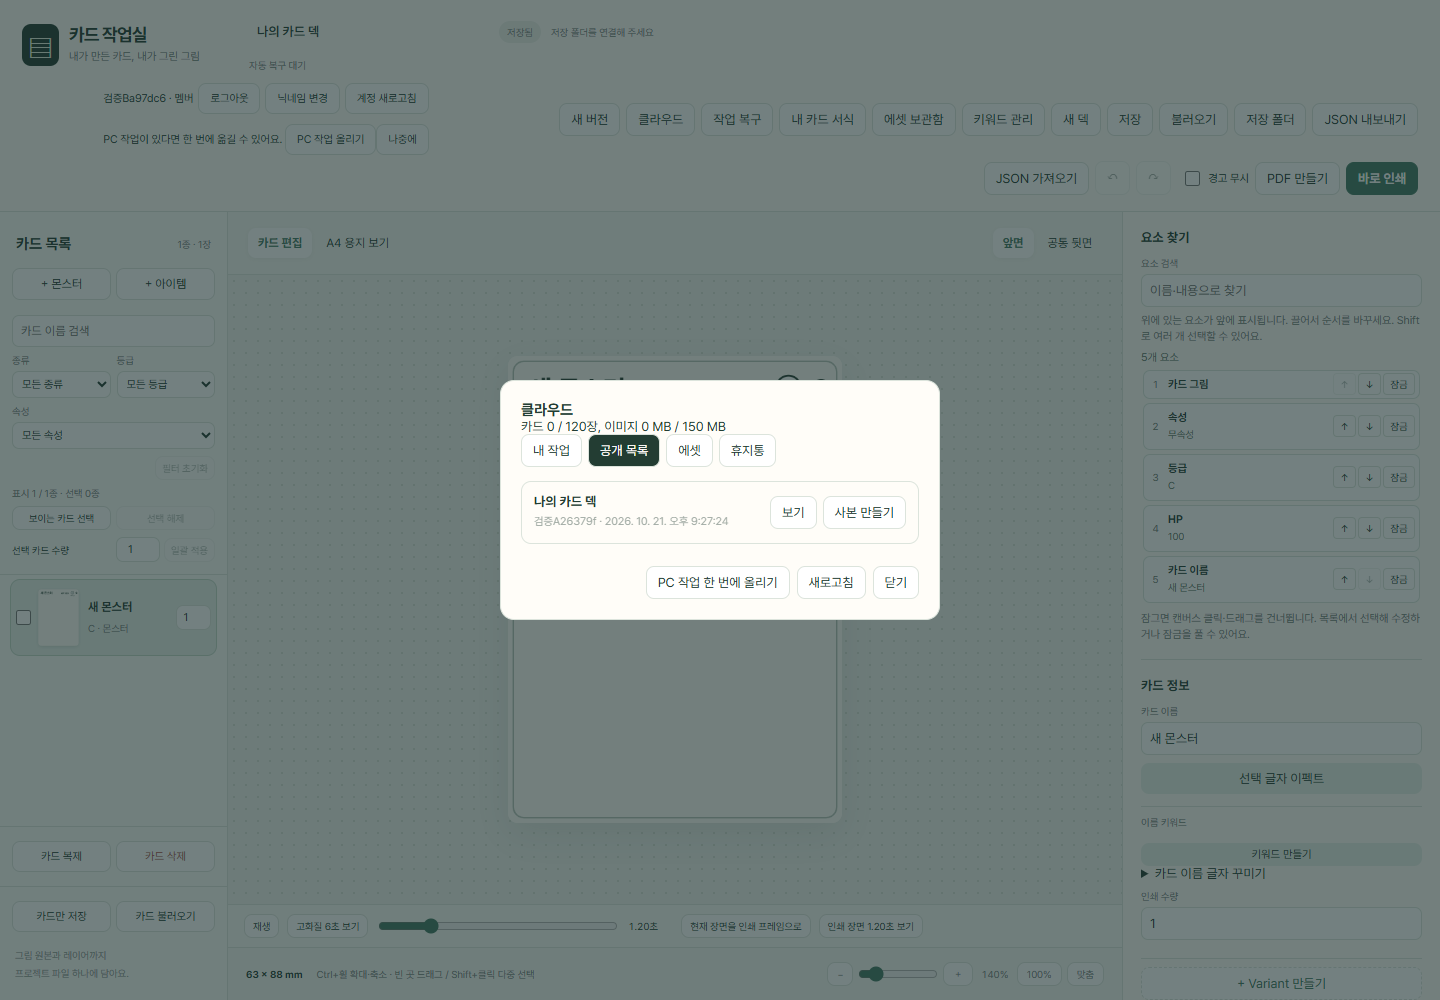
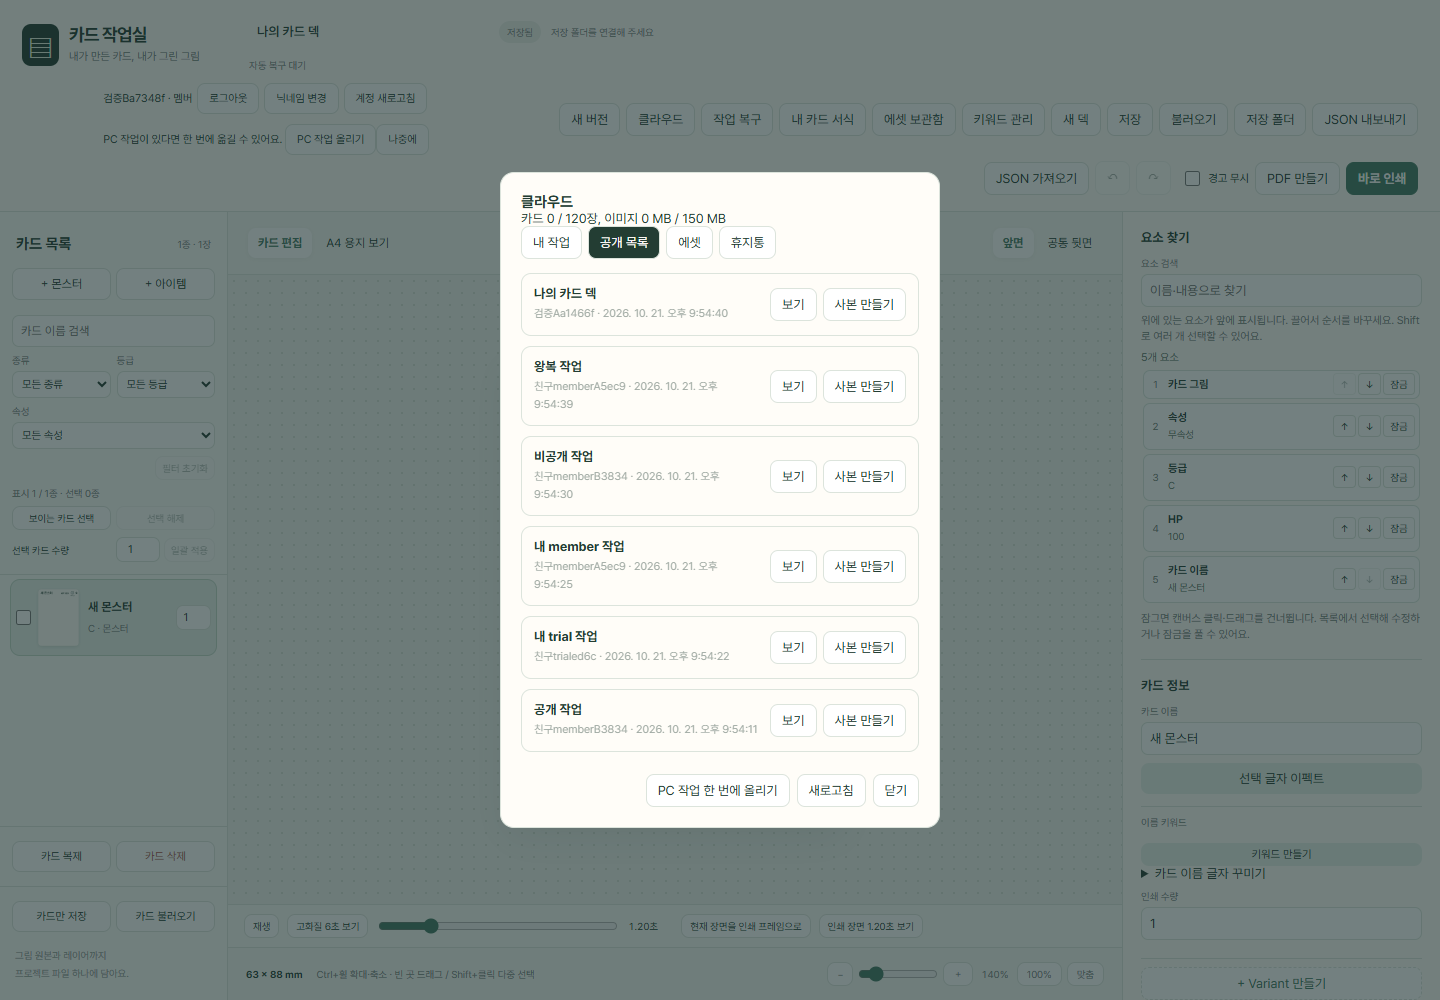
chore: record final local cloud sharing verification

diff --git a/docs/cloud-implementation-decisions.md b/docs/cloud-implementation-decisions.md
@@ -1,0 +1,43 @@
+# 구현 중 판단한 사항
+
+계획 실행 기록의 `Ruling:` 35개를 결정한 순서대로 옮겼다. 부록 A SQL 원문과 부록 B 권한 기준은 유지했다. 운영 반영은 사용자 확인 전까지 대기한다.
+
+| 순서 | 판단과 이유 | 영향·틀렸을 때 비용 |
+| --- | --- | --- |
+| 1 | 대기 중 이어서 작업할 수 있게 이 계획의 로컬 진행 기록을 보존한다. | 로컬 임시 파일이 남는다. |
+| 2 | 지정된 클라우드 브랜치 기준을 지키고 다른 폴더의 v1.5.3을 병합하지 않는다. | 나중에 통합할 때 충돌을 해결할 수 있다. |
+| 3 | 카드 서식은 공통 봉투 형식에 맞춰 `item`으로 검증한다. | 소비 코드 한 곳을 조정할 수 있다. |
+| 4 | 그림을 재구성할 수 있게 선택적인 `assets`·`paintings` 맵을 함께 저장한다. | 운영 반영 전 스냅샷 형식을 조정할 수 있다. |
+| 5 | 카드 서식 안의 그림도 재귀 변환하고 공유 이미지 크기 검사 함수를 제공한다. | 순수 모델의 공개 함수가 늘어난다. |
+| 6 | 예상 사용량과 가져오기 카운터·시각을 처리하도록 저장소 인터페이스를 확장한다. | 실제 DB 어댑터가 이를 구현해야 한다. |
+| 7 | 순수 핸들러는 사용자별로 직렬화하고 실제 DB의 잠금 연결 지점을 둔다. | 여러 서버의 원자성은 Task 5에서 별도로 검증해야 했다. 현재 검증했다. |
+| 8 | 바이너리 업로드도 가져오기 토큰을 받는다. | 전송 어댑터의 추가 옵션을 유지한다. |
+| 9 | JSON과 별도로 바이너리 업로드와 테스트용 전송 주입을 제공한다. | 서버의 업로드 경로 해석이 이를 지원해야 한다. |
+| 10 | 배포물의 금지 문자열까지 지키도록 고정된 SDK의 서버 키 감지 분기만 빌드에서 제외하고 공개 키만 허용한다. | SDK를 올릴 때 실패하도록 만든 이 어댑터를 재검토해야 한다. |
+| 11 | 개별 브라우저 검사는 파일을 명시한다. 기존 npm 명령 뒤에 파일을 붙이면 전체가 실행되기 때문이다. | 개별 검증 호출 방식이 달라진다. 최종 검사는 계획의 전체 명령을 썼다. |
+| 12 | 대기 계정의 모든 쓰기를 금지하므로 닉네임은 승인 후 받는다. | 대기 중에는 닉네임을 설정할 수 없다. |
+| 13 | 설정 전에는 세 번째 SQL 작성·적용을 미루고 가짜 클라이언트로 UI만 만든다. | 사용량 함수 검증을 설정 후로 미뤘다. 현재 세 원문과 실제 DB 검증을 완료했다. |
+| 14 | 다른 사람의 공개 덱에서는 화면 버튼과 실제 편집·되돌리기·내보내기를 함께 막는다. | 카드 파일 인터페이스에 기본 호환 옵션 하나를 유지한다. |
+| 15 | 공유 사본의 그림·레이어 식별자 변환을 재사용하고 공유 UI는 별도 모듈에 둔다. | 순수 보조 함수와 UI 모듈을 유지한다. |
+| 16 | 클라우드 이미지의 로컬 식별자를 행 ID로 만들고 계정별 캐시·미완료 저장을 보관한다. | 로컬 캐시 ID가 스냅샷 ID와 다르다. 서버 내용은 명시적으로 저장할 때 바뀐다. |
+| 17 | 알려지지 않은 그림 참조가 저장되지 않게 그림을 먼저 업로드한다. | 계획 예시와 진행 표시 순서가 다르다. |
+| 18 | PC 일괄 가져오기는 클라우드 캐시가 아닌 PC 이미지 보관함을 읽는다. | 로컬 보관함을 읽는 함수 하나를 유지한다. |
+| 19 | 최초 가져오기는 편집을 가로막는 자동 창 대신 닫을 수 있는 배너로 제안한다. | 배너를 놓치면 클라우드 메뉴에서 열어야 한다. |
+| 20 | 사용자가 준비한 DB를 Task 3에서 초기화하지 않고 적용된 SQL을 검사한다. | 이 단계만으로 빈 DB 재적용은 증명하지 못했다. Task 14의 별도 복원 검사에서 재적용을 확인했다. |
+| 21 | SQL 원문을 바꾸지 않고 서버 DB 트랜잭션과 사용자별 잠금으로 저장을 원자화한다. | 운영 환경도 지원되는 DB 연결·세션 풀러가 필요하다. 자격 증명은 서버 환경에만 둔다. |
+| 22 | API 게이트웨이의 JWT 사전 검사를 끄고 핸들러에서 Auth `getUser`로 모든 Bearer를 검증한다. | 인증 책임이 검증된 핸들러에 있다. 일관된 오류 응답과 OPTIONS를 제공한다. |
+| 23 | 모든 localhost 포트를 허용하지 않고 부록 C의 명시적 출처 목록을 따른다. | 다른 미리보기 포트는 환경 설정에 추가해야 한다. |
+| 24 | 로컬 다운로드 주소용으로 공개 URL 재정의 옵션을 둔다. | 로컬 함수 실행에 비밀값이 아닌 설정 하나가 추가된다. 운영은 기본 URL을 쓴다. |
+| 25 | 사용자 지정 업데이트 주소·모델 CDN 이동을 지원하도록 CSP의 HTTPS 연결을 유지한다. | 연결 목적지는 넓지만 실행 스크립트는 해시와 검증된 blob 경로로 제한한다. |
+| 26 | Supabase 소유 DDL 충돌을 피하도록 앱 마이그레이션·공개/Auth 데이터와 Storage 객체를 따로 백업·복원한다. | 같은 Supabase 플랫폼 스키마가 필요하며 관련 없는 플랫폼 DDL을 교체하지 않는다. |
+| 27 | 실제 로컬 UI 검사에는 별도 공개 설정·빌드 출력 경로를 쓴다. | 선택적 빌드 환경 옵션 두 개가 추가된다. 정식 설정과 기본 출력 경로는 유지한다. |
+| 28 | 운영 OAuth·운영 복원·배포는 확인했다고 주장하지 않고 사용자 확인 전까지 보류한다. | 운영 반영이 대기한다. |
+| 29 | 공개된 자료는 앱 밖에서도 API로 읽을 수 있다는 설계를 유지한다. | 공개 데이터의 비밀 보장은 할 수 없다. |
+| 30 | 부록 A와 문서화한 어댑터를 유지하고 리뷰에서 재현된 실제 동작 결함을 고친다. | 어댑터를 앱에서 계속 관리해야 한다. |
+| 31 | 비동기 쓰기는 시작한 계정에 묶고 계정 변경 시 이전 덱의 저장을 막는다. | 다른 계정으로 바꾸면 내 작업을 열거나 새 덱을 만든 뒤 저장해야 한다. 이전 편집은 로컬에 남긴다. |
+| 32 | 아직 어디에도 연결하지 않은 업로드도 이미지 한도에 예약한다. | 연결·정리 전에는 실제 한도 차단이 원문 `my_usage()`의 실사용 표시보다 먼저 올 수 있다. 휴지통·이력에 연결된 그림은 이 예약에서 제외한다. |
+| 33 | 기존 서버 전용 감사 표에 삭제 재시도를 남기고 객체 삭제 전에 메타데이터를 사용 불가로 확정한다. 쓰기와 정리는 공유·배타 잠금으로 조율한다. | 재시도 전까지 기록이 남고, 유지되는 DB 세션이 필요하며 정리 중 쓰기가 잠시 대기한다. |
+| 34 | 일정한 키 순서로 목록을 나눠 읽고 실제 DB 구독 준비 시 한 번 더 조회한다. | 큰 목록에는 추가 요청과 구독 준비 후 조회 한 번이 필요하다. |
+| 35 | 반복 검증을 위해 Task 15의 두 프로필 시나리오를 실제 Edge·Auth·API·Realtime·화면 조작으로 자동화하고 스크린샷도 살핀다. | Google OAuth와 운영 브라우저 동작은 이 로컬 증거에 포함되지 않으며 운영 확인이 따로 필요하다. |
+
+경미한 리뷰 지적 보류: 없음.

diff --git a/docs/cloud-verification.md b/docs/cloud-verification.md
@@ -6,9 +6,28 @@
 
 - Supabase CLI 2.121.0, PostgreSQL 17.11, Edge runtime 1.77.4, Node 24.19.0, 실제 Microsoft Edge 사용.
 - 부록 A의 SQL 세 파일은 원문과 대조한다. 부록 B의 anon/pending/revoked/trial/member 권한은 실제 REST·Storage·함수 호출로 검사한다.
-- 두 개의 독립 Edge 프로필에서 실제 로컬 이메일 세션으로 공개 → 실시간 목록 반영 → 사본을 확인했다. 준멤버는 10장까지 저장되고 11장째는 거부됐다. 승인 해제 후 다음 저장은 즉시 차단됐다. 페이지 스크립트 오류는 0개였다.
+- 두 개의 독립 Edge 프로필에서 실제 로컬 이메일 세션으로 공개 → 실시간 목록 반영 → 사본을 확인했다. 에셋 탭을 열어 둔 채 공개·수정·비공개·삭제가 반영되고, 저장 충돌의 서버 내용 불러오기·사본 저장도 확인했다. 준멤버는 10장까지 저장되고 11장째는 거부됐다. 승인 해제 후 다음 저장은 즉시 차단됐다. 페이지 스크립트 오류는 0개였다.
 - 백업 → 실제 로컬 DB reset → 세 마이그레이션 재적용 → 데이터·그림 복원이 통과했다. 수량·그림 해시·복원 후 계정 로그인 결과는 [cloud-admin.md](cloud-admin.md)에 있다.
-- 전체 단위 검사 482개 통과. 전체 브라우저 및 통합 검사, 최종 리뷰 결과는 검증 완료 후 아래에 확정한다.
+- 전체 단위 검사 492개, 브라우저 검사 510개, 실제 로컬 통합 검사 20개가 통과했다. 실패는 0개다. 모델 파일이 필요한 선택적 실제 U2NetP 추론 검사 1개만 건너뛰었다.
+
+## 리뷰 수정
+
+전체 브랜치에 대한 별도 리뷰에서 중요한 문제 8개를 확인했다. 각 문제를 먼저 실패하는 테스트로 재현한 뒤 수정했고 `2dc9ed6`에 커밋했다. 보류한 경미한 지적은 없다.
+
+계획과 달리 판단한 35개 사항과 각각의 영향은 [구현 판단 기록](cloud-implementation-decisions.md)에 순서대로 보관했다. Task 15의 두 프로필 시나리오는 실제 Edge 화면 조작을 자동화하고 스크린샷을 살피는 방식으로 검증했다. 기계 판독 결과는 [result.json](evidence/cloud/result.json)에 있다.
+
+| 문제 | 수정 결과와 검증 |
+| --- | --- |
+| 업로드 중 계정 변경 | 작업을 시작한 계정으로만 요청하며, 이전 계정의 덱은 로컬 복구 내용을 유지한 채 저장을 중지한다. 그림 보관함·공유·PC 가져오기에도 적용했다. |
+| 미연결 이미지로 한도 우회 | 아직 작업에 연결하지 않은 업로드도 한도에 예약한다. 준멤버가 8 MiB 이미지를 두 번 올릴 때 두 번째를 실제 HTTP에서 거부했다. |
+| 이미지 정리 도중 일부 삭제 실패 | 삭제 중인 자료를 먼저 사용 불가로 확정하고 재시도 기록을 남긴다. 실제 DB·Storage에서 중간 실패 → 재업로드 → 기록 해제 → 정상 저장을 확인했다. |
+| 충돌 선택 버튼 없음 | 서버 내용 불러오기·현재 편집을 사본으로 저장을 화면에서 선택한다. 두 선택 모두 실제 서버에서 확인했다. |
+| 에셋 실시간 변경 누락 | 공개·수정·비공개·삭제를 현재 에셋 목록에도 즉시 반영한다. |
+| 목록 조회와 실시간 이벤트 순서 충돌 | 조회 중 도착한 이벤트를 순서대로 다시 적용해 삭제한 항목이 재등장하거나 새 항목이 사라지지 않는다. |
+| REST 1,000행 제한 | 일정한 순서로 나누어 읽는다. 실제 2,004행 중 내 에셋 1,002개와 공개 에셋 1,002개를 모두 확인했다. |
+| 내 에셋 재사용 불가 | 보관한 키워드·서식·이펙트를 현재 덱에 적용한다. 그림 읽기가 실패해도 이미 만든 사본을 다시 적용할 수 있다. |
+
+미연결 이미지 예약량은 부록 A의 원문을 유지한 `my_usage()` 표시량에는 포함되지 않는다. 따라서 이미지를 올린 직후에는 실제 저장 한도가 표시 사용량보다 먼저 차단될 수 있으며, 작업에 연결하거나 정리하면 해소된다. 정리는 기존 서버 전용 감사 기록에 삭제 재시도를 남기며, DB 연결 하나를 유지하는 동안 쓰기 요청을 잠시 대기시킨다.
 
 ## 다시 실행하기
 
@@ -26,14 +45,31 @@ npm run test:cloud:ui
 
 백업 복원은 일반 테스트에 포함하지 않는다. `node --env-file=.env.cloud-test scripts/verify-local-backup.mjs --reset-local`을 명시적으로 실행할 때만 로컬 DB를 초기화한다. Docker/Supabase 실행 파일이 PATH에 없으면 `DOCKER_BIN`, `SUPABASE_CLI`를 지정한다.
 
-전체 로그와 실행 결과 JSON은 `artifacts/qa/cloud-*.log`, `artifacts/qa/cloud-browser-result.json`에 보관한다. SQL·브라우저 프로필·인증 데이터는 이 디렉터리에서만 관리하고 커밋하지 않는다.
+최종 로그는 `artifacts/qa/cloud-unit-final.log`, `cloud-build.log`, `cloud-browser-final.log`, `cloud-integration.log`, `cloud-ui.log`와 `cloud-browser-result.json`에 보관한다. SQL·브라우저 프로필·인증 데이터는 이 디렉터리에서만 관리하고 커밋하지 않는다.
 
 ## 화면 증거
 
 ![B의 공개 목록 실시간 반영](evidence/cloud/live-public.png)
 ![준멤버 11장째 저장 거부](evidence/cloud/trial-limit.png)
 ![승인 해제 후 저장 차단](evidence/cloud/revoked-write.png)
+![에셋 탭에서 실시간 수정 반영](evidence/cloud/live-asset.png)
+![저장 충돌의 두 선택지](evidence/cloud/conflict-load.png)
 
 ## 최종 검사와 리뷰
 
-검증 진행 중. Task 15 Step 3은 사용자 확인 전까지 대기한다.
+검증한 소스 커밋은 `2dc9ed65dfa8aaffcbe543987b86fb97c3b403a4`다. 그 이후 변경은 이 검증 문서와 증거 파일뿐이다. 집계는 [verification.json](evidence/cloud/verification.json)에 보관한다.
+
+| 검사 | 통과 | 실패 | 건너뜀 |
+| --- | ---: | ---: | ---: |
+| 전체 단위 검사 | 492 | 0 | 0 |
+| 전체 브라우저 검사 | 510 | 0 | 1 |
+| 실제 로컬 Supabase 통합 검사 | 20 | 0 | 0 |
+| 합계 | 1,022 | 0 | 1 |
+
[1 lines of base64/hex data omitted]
+
+선택적 검사 1개는 `CARD_BG_MODEL_DIR`에 고정된 `ort.min.js`, `ort-wasm-simd.wasm`, `u2netp.onnx` 파일이 없어 실행하지 않았다. 다른 배경 제거 검사와 오프라인 브라우저 검사는 통과했다. 실제 모델 추론까지 검증했다고 주장하지 않는다.
+
+Task 1–14와 Task 15 Steps 1–2의 로컬 구현·검증을 마쳤다. 중요한 리뷰 지적 8개는 실패 재현 → 수정 → 통과 후 전체 검사로 확인했다. 보류한 경미한 지적은 없다. 부록 A 마이그레이션은 `b02c766` 이후 변경하지 않았다.
+
+Task 15 Step 3은 사용자 확인 전까지 대기한다. 운영 Supabase 반영, 운영 Google OAuth, 운영 환경 백업 복원, GitHub 푸시와 Pages 배포는 이 로컬 검증에 포함되지 않는다.
